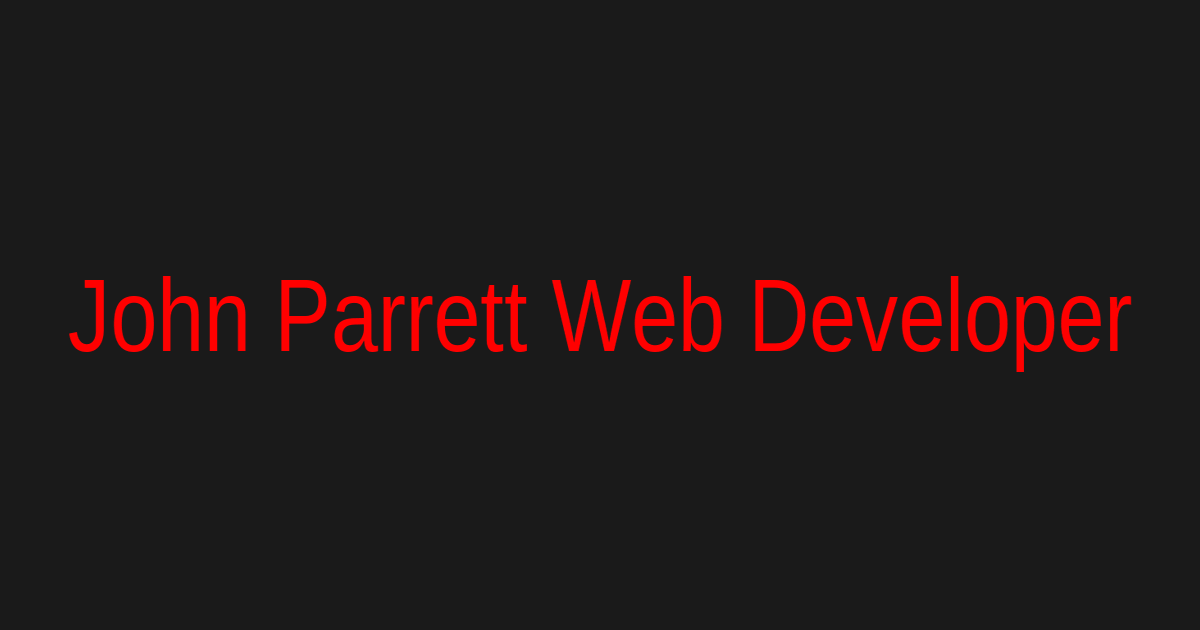
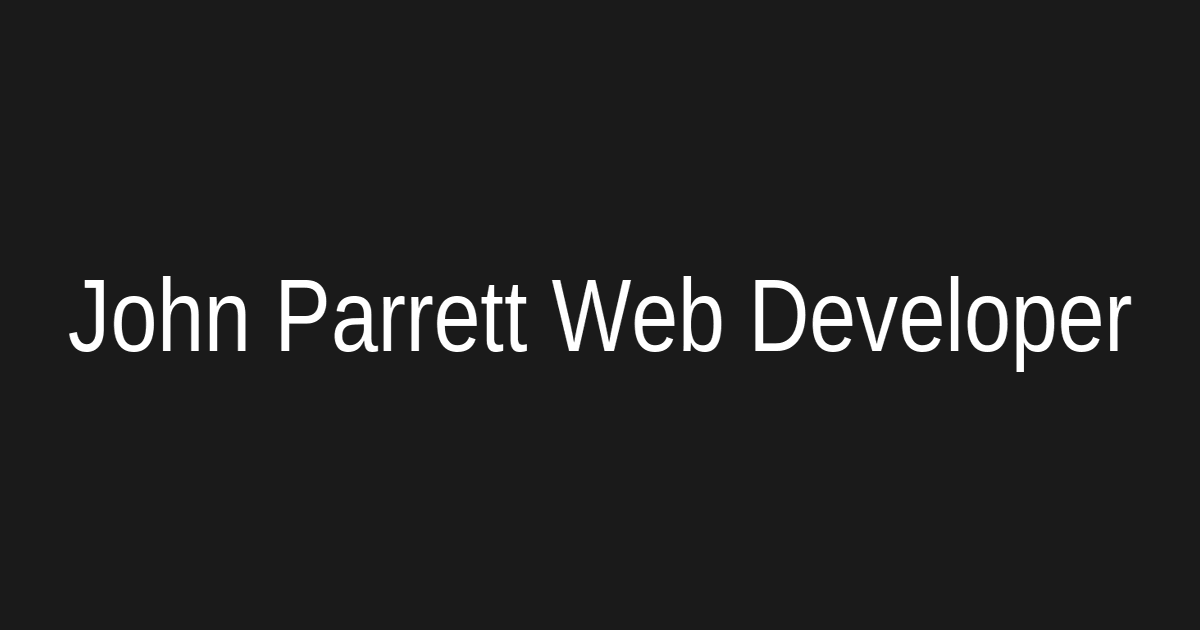
Fix remaining font-family typo and update OG image text color
- Fix font-family typo on .w3-display-container class
- Recreate link-image.png with white text for better contrast

Changed region(s): [[0.0617, 0.4222, 0.9558, 0.6032]]

diff --git a/style.css b/style.css
@@ -195,7 +195,7 @@ header {
 }
 
 .w3-display-container {
-    font-family: 'Roboto', 'serif';
+    font-family: 'Roboto', serif;
 }
 
 .w3-display-container:hover .w3-display-hover {
